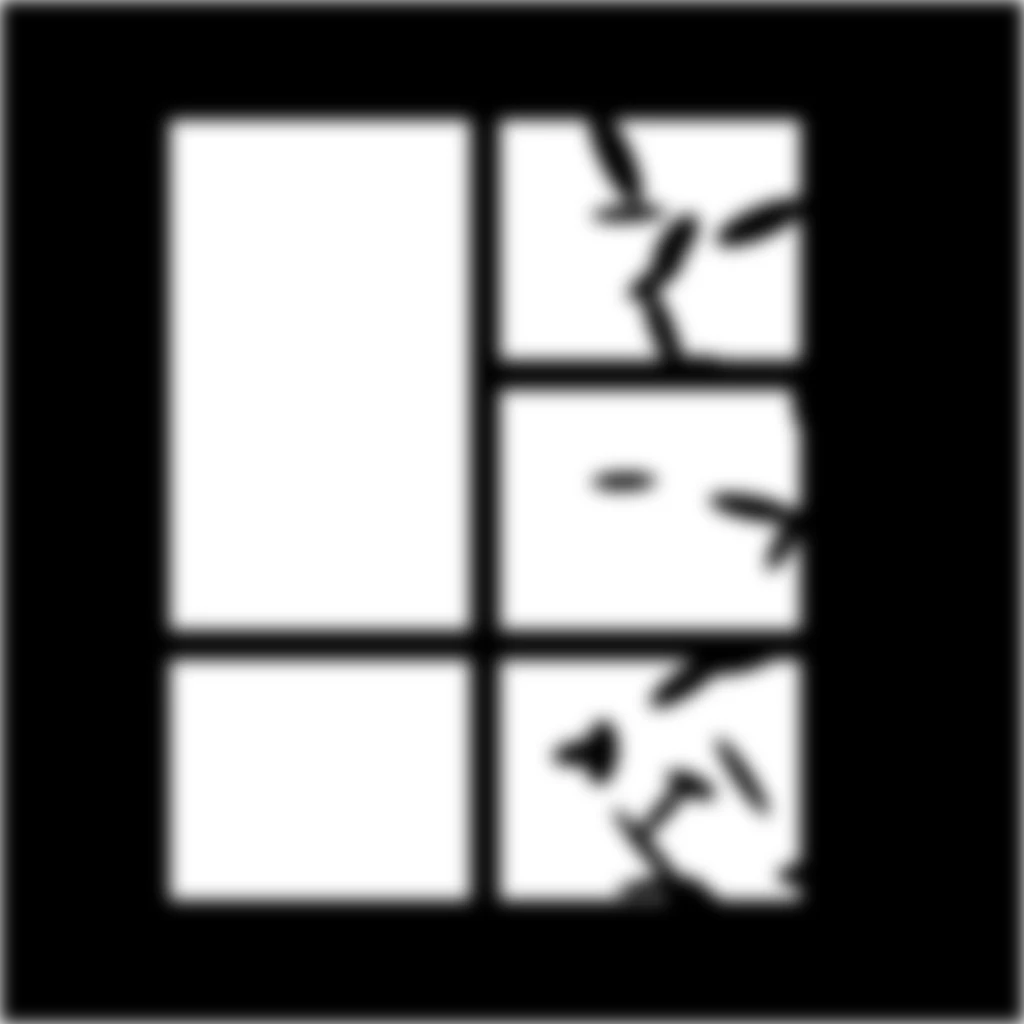
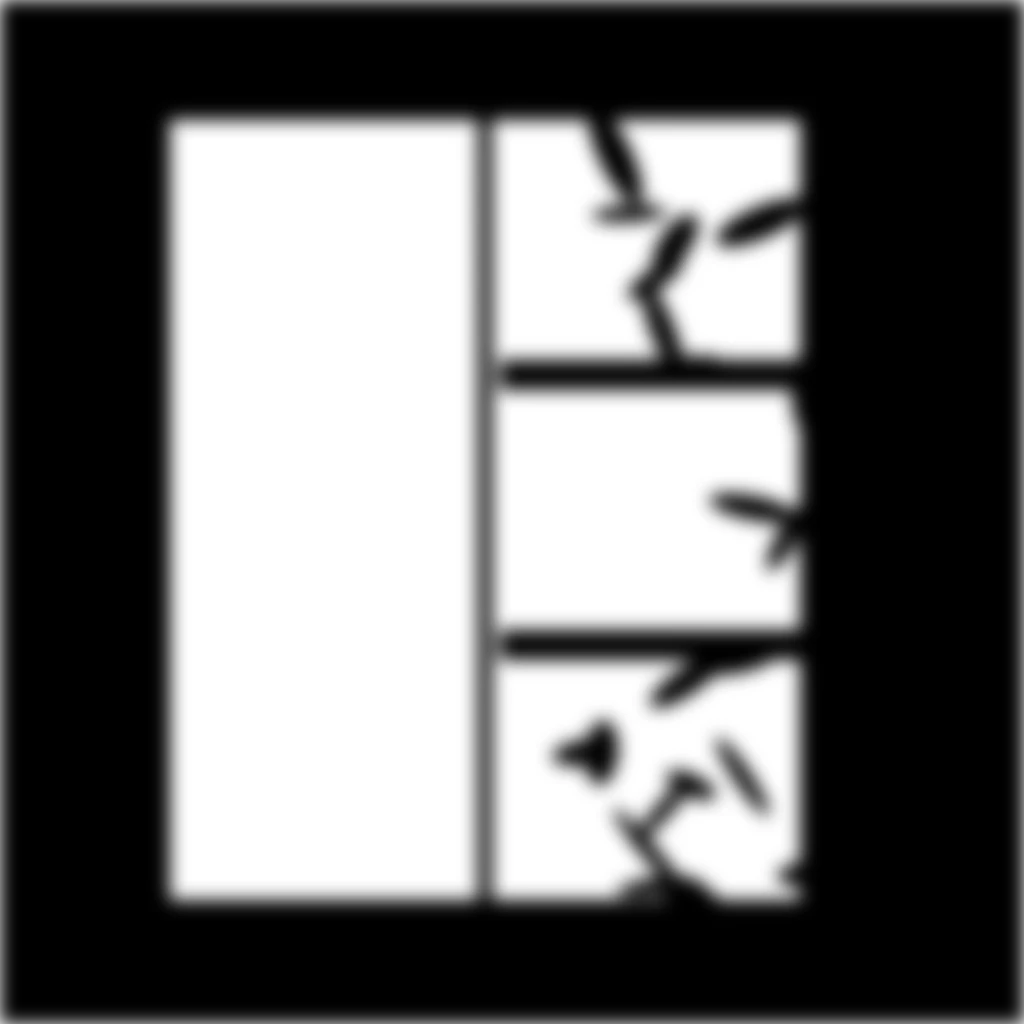
Flash critic r6: 7.5, gap is the text surviving the flash peak
Claude-Session: https://claude.ai/code/session_016nJieuj3hz1PRLzcMUTyK7

Changed region(s): [[0.1562, 0.0938, 0.5, 0.9062], [0.5625, 0.4375, 0.6562, 0.5]]

diff --git a/site/js/chapters/wall.js b/site/js/chapters/wall.js
@@ -25,9 +25,39 @@ const DAY = { sun: new THREE.Color(0xffc28a), sky: new THREE.Color(0xb5c6e4), gr
 // mullions move off the copy column, so the call to action sits in one pane.
 const DUSK = { sun: new THREE.Color(0xff8f5e), sky: new THREE.Color(0xc4a0c4), ground: new THREE.Color(0x5e3f3a), sunIntensity: 4.6, sunY: 3.4, aim: [-2.7, -0.7] };
 // `ABOUT_AIM` slides the sun (and its target) along the wall and down for the
-// about copy: the mullion falls just right of the copy column and the bar
-// under the tall left pane falls below the screen, so every line rises in sun.
-const ABOUT_AIM = [1.9, -3.9];
+// about chapter: with the about window, the copy rises in its tall left pane,
+// the thin mullion falls in the gap between copy and cluster, and the cluster
+// sits in one right-hand pane with a bar just above it and one just below.
+const ABOUT_AIM = [1.6, -1.4];
+
+// Cross-fades two baked windows into one target, so the sun's window can
+// change without a visible switch. Only drawn while a fade is under way.
+const windowBlend = (from, to) => {
+  const target = new THREE.WebGLRenderTarget(1024, 1024, { type: THREE.HalfFloatType, depthBuffer: false });
+  const material = new THREE.ShaderMaterial({
+    uniforms: { uFrom: { value: from }, uTo: { value: to }, uMix: { value: 0 } },
+    vertexShader: 'varying vec2 vUv; void main() { vUv = uv; gl_Position = vec4(position.xy, 0.0, 1.0); }',
+    fragmentShader: 'uniform sampler2D uFrom; uniform sampler2D uTo; uniform float uMix; varying vec2 vUv;'
+      + ' void main() { gl_FragColor = vec4(mix(texture2D(uFrom, vUv).rgb, texture2D(uTo, vUv).rgb, uMix), 1.0); }',
+    depthTest: false,
+    depthWrite: false,
+  });
+  const quad = new THREE.Mesh(new THREE.PlaneGeometry(2, 2), material);
+  quad.frustumCulled = false;
+  const scene = new THREE.Scene();
+  scene.add(quad);
+  const camera = new THREE.OrthographicCamera(-1, 1, 1, -1, 0, 1);
+  return {
+    texture: target.texture,
+    draw(renderer, mix) {
+      material.uniforms.uMix.value = mix;
+      const previous = renderer.getRenderTarget();
+      renderer.setRenderTarget(target);
+      renderer.render(scene, camera);
+      renderer.setRenderTarget(previous);
+    },
+  };
+};
 
 export const WALL_LOOK = {
   bloom: 0.05, halation: 0.16, exposure: 1.06, saturation: 0.98, contrast: 1.04,
@@ -90,6 +120,7 @@ export class WallChapter {
     scene.add(sky);
     this.sun = sun;
     this.sky = sky;
+    this.aboutWindow = windowBlend(tex.gobo, tex['gobo-about']);
 
     const ink = { tape: (name) => tex[`tape-${name}`] };
     const pieces = [];
@@ -231,16 +262,19 @@ export class WallChapter {
     // wall is off screen (projects to scrapbook), so the light never jumps.
     const dusk = smooth(progress(v, T.contact.dusk));
     const corner = smooth(progress(v, [T.transitions.wallToRoom[1], T.transitions.deskToWall[0]]));
-    // The about aim is exactly zero outside its window; it eases in while the
-    // tall pane's missing bar is off screen and out after the leak hides the wall.
+    // The about aim is exactly zero outside its window; it eases in, with the
+    // about window fading in over the day's, and out after the leak hides the wall.
     const about = smooth(progress(v, T.about.light.in)) * (1 - smooth(progress(v, T.about.light.out)));
+    const aboutFade = smooth(progress(v, T.about.light.fade));
+    if (about > 0 && aboutFade < 1) this.aboutWindow.draw(this.app.renderer, aboutFade);
+    const aboutMap = aboutFade < 1 ? this.aboutWindow.texture : this.tex['gobo-about'];
     const follow = this.lookAt.x * 0.88 + DUSK.aim[0] * corner + ABOUT_AIM[0] * about;
     const lower = ABOUT_AIM[1] * about;
     this.sun.position.set(follow - 15.6, lerp(DAY.sunY, DUSK.sunY, dusk) + lower, 16.5);
     this.sun.target.position.set(follow + 0.4, 0.2 + DUSK.aim[1] * corner + lower, 0);
     // Until the flash, one leaf of the window is nudged off the strip's spot so
     // it waits in clean sun; the swap back happens under the flash's white.
-    this.sun.map = v < T.flash.fire ? this.tex['gobo-hello'] : corner > 0 ? this.tex['gobo-dusk'] : about > 0 ? this.tex['gobo-about'] : this.tex.gobo;
+    this.sun.map = v < T.flash.fire ? this.tex['gobo-hello'] : corner > 0 ? this.tex['gobo-dusk'] : about > 0 ? aboutMap : this.tex.gobo;
     // The note under the spot retires under the same white.
     this.spotNote.visible = v < T.flash.fire;
     this.sun.color.copy(DAY.sun).lerp(DUSK.sun, dusk);

diff --git a/tools/bake/manifest.js b/tools/bake/manifest.js
@@ -193,7 +193,7 @@ const riso = (p, key, w, h, options = {}) => cutOut(risograph(p[key], w, h, { ce
 // Window light: two columns of panes, mullions, leaves along one side, softened.
 // `rows` is each row's pane height (px, top to bottom). `nudge` moves single
 // leaves ({ index: [dx, dy] } px) without reseeding the rest.
-const windowGobo = ({ blur = 9, leaves = 60, nudge = {}, rows = [240, 240, 240], bridges = [] } = {}) => {
+const windowGobo = ({ blur = 9, leaves = 60, nudge = {}, rows = [240, 240, 240], bridges = [], open = [] } = {}) => {
   const canvas = makeCanvas(1024, 1024);
   const ctx = canvas.getContext('2d');
   ctx.fillStyle = '#000';
@@ -211,6 +211,8 @@ const windowGobo = ({ blur = 9, leaves = 60, nudge = {}, rows = [240, 240, 240],
     const barTop = pane.y + rows.slice(0, row + 1).reduce((sum, h) => sum + h, 0) + row * pane.bar;
     ctx.fillRect(pane.x + col * (pane.w + pane.bar), barTop, pane.w, pane.bar);
   }
+  // Extra light: [x, y, w, h] rects opened in the frame (for example to thin a bar).
+  for (const [x, y, w, h] of open) ctx.fillRect(x, y, w, h);
   const rand = random(5);
   ctx.fillStyle = '#000';
   for (let k = 0; k < leaves; k += 1) {
@@ -484,9 +486,14 @@ export const TEXTURES = {
   'gobo-dusk': { make: () => windowGobo({ rows: [220, 280, 220], nudge: { 5: [220, 0], 35: [0, 60], 48: [60, 0] } }), quality: 0.9 },
 
   // --- the wall: about
-  // The about window: the left column's top bar is gone, so its top two panes
-  // are one tall pane that holds the copy column the whole way up the screen.
-  // That bar is off screen whenever the swap from 'gobo' happens, so the
-  // light never jumps.
-  'gobo-about': { make: () => windowGobo({ bridges: [[0, 0]] }), quality: 0.9 },
+  // The about window: the left column is one tall pane (both its bars gone) so
+  // the copy column rises in sun, the mullion is thinned to 14 px so it fits
+  // the gap between the copy and the cluster, and the leaf that fell on the
+  // portrait (5) is moved out of the frame. The right column's middle pane
+  // holds the cluster, with its two bars just above and below it. The wall
+  // cross-fades into this window, so nothing switches.
+  'gobo-about': {
+    make: () => windowGobo({ bridges: [[0, 0], [0, 1]], open: [[470, 120, 8, 780], [492, 120, 8, 780]], nudge: { 5: [0, 2000] } }),
+    quality: 0.9,
+  },
 };

diff --git a/site/js/motion/timeline.js b/site/js/motion/timeline.js
@@ -63,9 +63,10 @@ export const TIMELINE = {
     // with a gentle camera drop), then settle by the about cluster. Lengthened by
     // 0.8 vh so the copy never sits on a photo and peak wall speed stays ~1.2x the copy's.
     dolly: [3.25, 5.9, 6.25],
-    // The sun swings right and down onto the copy column: in by the time the
-    // copy rises into view, out once the light leak has hidden the wall.
-    light: { in: [4.3, 5.0], out: [6.42, 6.75] },
+    // The sun swings right and down onto the copy column and the about window
+    // fades in over the day's: in by the time the copy rises into view, out
+    // once the light leak has hidden the wall.
+    light: { in: [4.3, 5.0], fade: [4.3, 4.9], out: [6.42, 6.75] },
   },
 
   transitions: {
